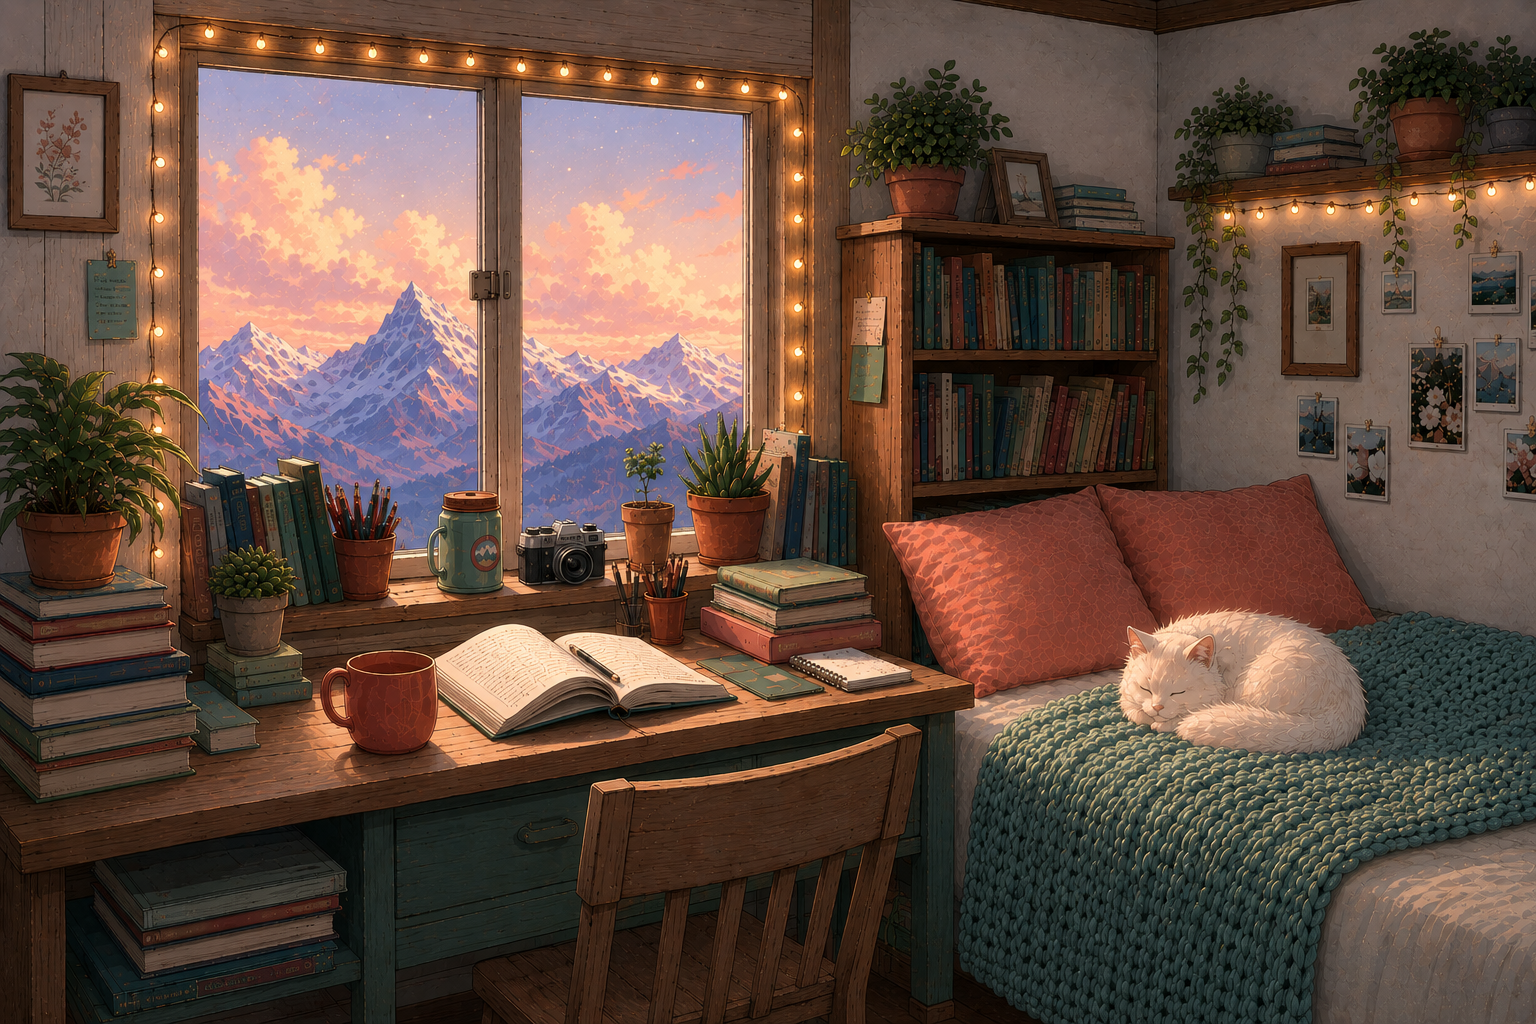
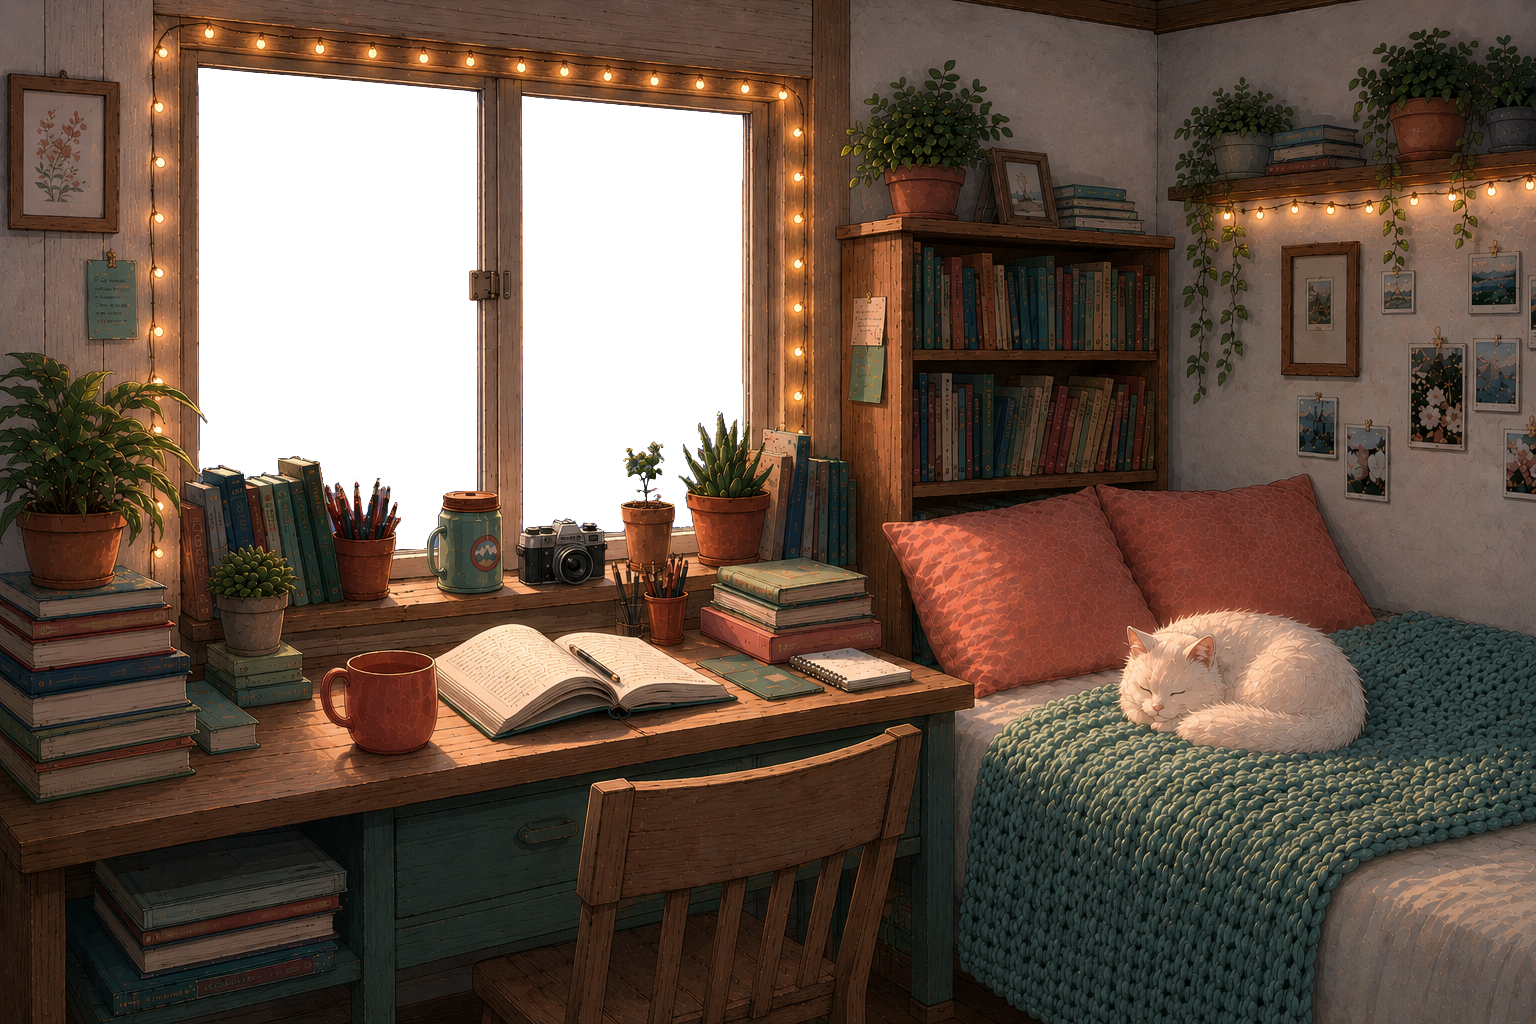
Use Jill's hand-cut transparent room2.png + bump parallax to 0.25
Jill cleaned up room2.png in Preview using Instant Alpha + Lasso so the
inside of both window panes (and only those areas — the windowsill
items, books, plants, mug, pencil cup, succulent are all preserved)
is now properly transparent. 12.5% of the image is alpha=0, all
concentrated in the visible-sky regions of the windows.

This replaces the auto-generated room2_layered.png (which used coarse
rectangular masking that cut into windowsill items). Result: parallax
no longer "leaks" the mountain layer through where foreground objects
should occlude it.

With the cleaner cutout, bump PARALLAX_FACTOR from 0.15 to 0.25 for
more dramatic depth. The mountains visibly drift slower than the room
on swipe — the view through the window now feels properly distant.

Changed region(s): [[0.125, 0.0625, 0.5, 0.5625]]

diff --git a/public/library/index.html b/public/library/index.html
@@ -24,7 +24,7 @@
            (37.03%, 99.47%), (56.11%, 99.47%) — could become a foreground
            parallax layer if extracted as a transparent PNG. -->
       <img class="parallax-mountains" id="parallax-mountains" src="assets/mountains.png" alt="" aria-hidden="true">
-      <img class="room-fg" src="assets/room2_layered.png" alt="" aria-hidden="true">
+      <img class="room-fg" src="assets/room2.png" alt="" aria-hidden="true">
 
       <!-- Painted-lights overlay: invisible glow-dots positioned over each
            painted fairy light in the room, animated with mix-blend-mode: screen.

diff --git a/public/library/script.js b/public/library/script.js
@@ -363,7 +363,7 @@ function setupScrollHints() {
    the natural left drift in the viewport) at 0.15× the scroll rate, so the
    net visible motion is 0.85× — appears far away. */
 
-const PARALLAX_FACTOR = 0.15;
+const PARALLAX_FACTOR = 0.25;
 
 function setupParallax() {
   const wrapper = document.getElementById('room-wrapper');
